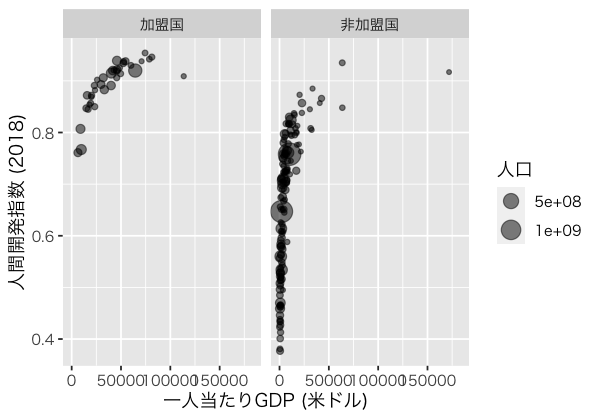
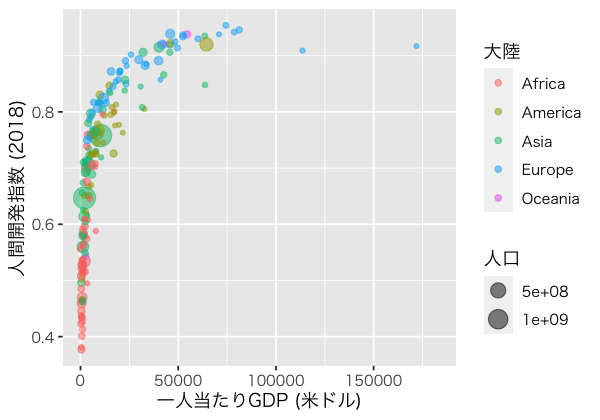
no message

diff --git a/teaching/KPU2020/Slide3.html b/teaching/KPU2020/Slide3.html
@@ -1068,6 +1068,116 @@ COVID_df %&gt;%
 |Taiwan      |2020/05/02 |         3|
 |Taiwan      |2020/05/03 |         4|
 |Taiwan      |2020/05/04 |         2|
+
+---
+class: inverse, middle, center
+
+# ggplot2いろいろ
+
+---
+
+## 図の保存
+
+`ggsave()`関数を使用
+* 保存する図をオブジェクトに格納しておくこと
+* ファイル名の拡張子を必ず指定（`ファイル名.png`、`ファイル名.pdf`など）
+* 大きさの単位はインチ（`"in"`）、センチメートル（`"cm"`）、ミリメートル（`"mm"`）
+
+
+```r
+ggsave(filename = "保存するファイル名",
+       plot     = 図のオブジェクト名,
+       units    = "幅と高さの単位", 
+       width    = 図の幅,
+       height   = 図の高さ)
+```
+
+macOS使用、かつ図内に日本語が含まれている場合
+* `quartz()`を使用: [教科書第17.3.3章](https://www.jaysong.net/RBook/visualization2.html#図の保存)
+
+---
+
+## 幾何オブジェクトの引数
+
+`color`引数の例
+
+* `aes()`内で指定: 変数ごとに色分け（変数を指定）
+
+
+```r
+geom_point(aes(x = PPP_per_capita, y = HDI_2018, `color = Continent`))
+```
+
+* `aes()`外で指定: 全要素の色指定（具体的な色を指定）
+
+
+```r
+geom_point(aes(x = PPP_per_capita, y = HDI_2018), `color = "Red"`)
+```
+
+---
+
+## 幾何オブジェクトの引数
+
+
+```r
+Country_df %&gt;%
+  ggplot() +
+  geom_point(aes(x = PPP_per_capita, y = HDI_2018, color = Continent))
+```
+
+&lt;img src="Slide3_files/figure-html/unnamed-chunk-62-1.png" style="display: block; margin: auto;" /&gt;
+
+---
+
+## 幾何オブジェクトの引数
+
+
+```r
+Country_df %&gt;%
+  ggplot() +
+  geom_point(aes(x = PPP_per_capita, y = HDI_2018), color = "Red")
+```
+
+&lt;img src="Slide3_files/figure-html/unnamed-chunk-63-1.png" style="display: block; margin: auto;" /&gt;
+
+---
+
+## `theme()`レイヤー
+
+図全体を貫通する見た目を細かく調整可能
+
+
+```r
+データ %&gt;%
+  ggplot() +
+  geom_*() +
+* theme()
+```
+
+凡例の位置調整（`"left"`、`"bottom"`、`"top"`、`"right"`）
+
+```r
+theme(legend.position = "bottom")
+```
+
+文字サイズの調整
+
+```r
+theme(text = element_text(size = 16))
+```
+
+---
+
+## R Graph Gallery
+
+様々なグラフの例とコードが見られるホームページ
+
+* [The R Graph Gallery](https://www.r-graph-gallery.com/index.html)
+
+&lt;center&gt;
+&lt;img src = "Figs/03/R_Graph_Gallery.png" width = "90%"&gt;
+&lt;/center&gt;
     </textarea>
 <style data-target="print-only">@media screen {.remark-slide-container{display:block;}.remark-slide-scaler{box-shadow:none;}}</style>
 <script src="libs/remark-latest.min.js"></script>
